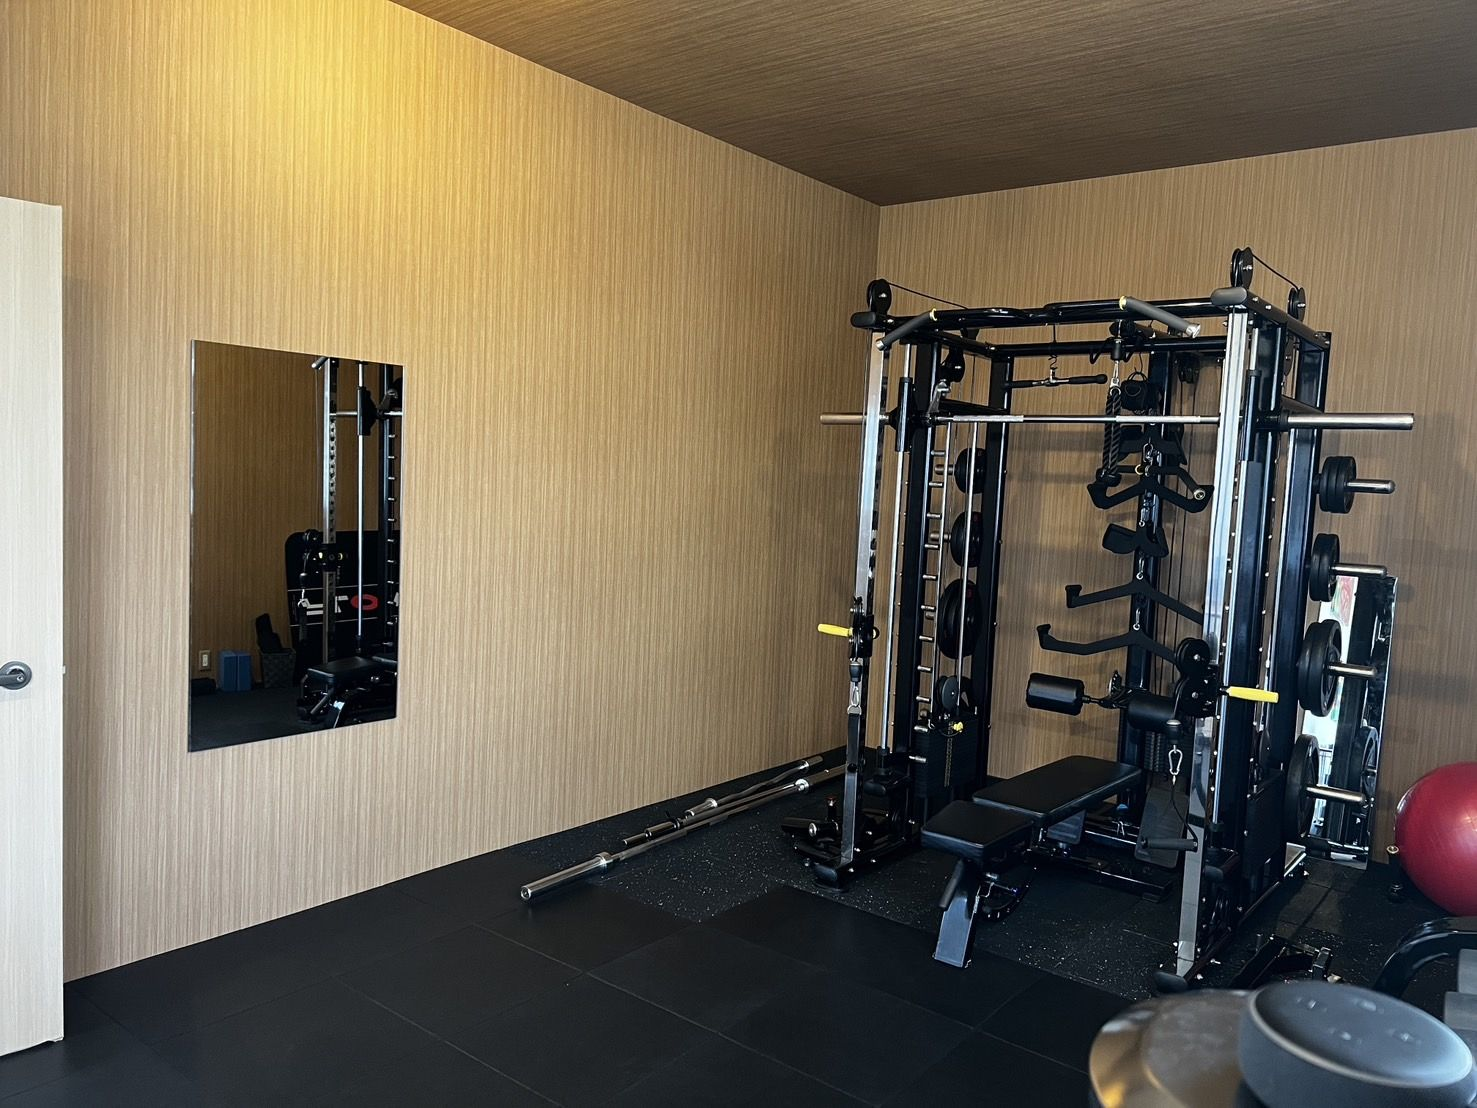
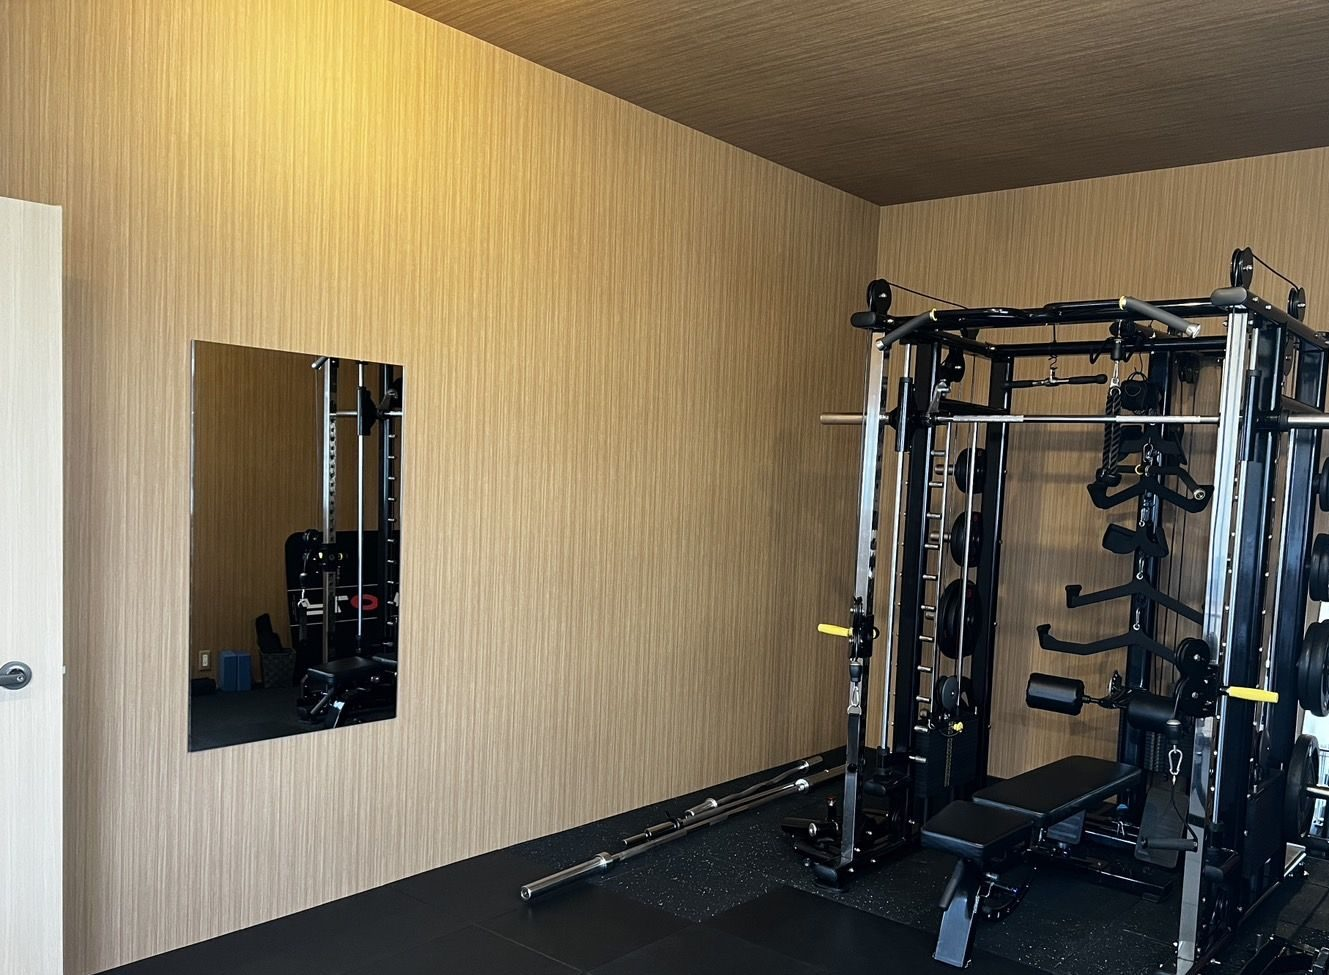
レンタルジム：キャッチを「じぶんだけの時間」に変更、ヘッダー写真のボール等を切り抜き
Claude-Session: https://claude.ai/code/session_01WTuERryJ1nYqSRfbQogsje

diff --git a/rental_gym_cafe.css b/rental_gym_cafe.css
@@ -17,7 +17,7 @@ body[data-theme="none"]{
 *{box-sizing:border-box;margin:0;padding:0;-webkit-tap-highlight-color:transparent}
 html{-webkit-text-size-adjust:100%;text-size-adjust:100%;touch-action:manipulation}
 body{font-family:"Shippori Mincho B1","Hiragino Mincho ProN","Yu Mincho",serif;background:var(--bg);color:var(--ink);line-height:1.7;overflow-x:hidden;touch-action:manipulation;transition:background .35s}
-.hero{position:relative;min-height:320px;color:#FFF8EE;overflow:hidden;background:#3a2a1f url("rental_gym_room.jpg?v=1") center 58%/cover no-repeat;display:flex;align-items:flex-end}
+.hero{position:relative;min-height:320px;color:#FFF8EE;overflow:hidden;background:#3a2a1f url("rental_gym_room.jpg?v=2") center 58%/cover no-repeat;display:flex;align-items:flex-end}
 .hero::before{content:"";position:absolute;inset:0;background:linear-gradient(180deg,rgba(0,0,0,.45) 0%,rgba(0,0,0,0) 30%,rgba(0,0,0,0) 55%,rgba(0,0,0,.5) 100%)}
 .hero::after{content:"";position:absolute;left:0;right:0;bottom:-1px;height:24px;background:var(--bg);border-radius:24px 24px 0 0;transition:background .35s}
 .hero-in{position:static;width:100%;max-width:560px;margin:0 auto;padding:22px 20px 46px}

diff --git a/rental_gym_yoyaku.html b/rental_gym_yoyaku.html
@@ -14,7 +14,7 @@
 <link rel="manifest" href="manifest_rental.json?v=2">
 <link rel="preconnect" href="https://fonts.googleapis.com">
 <link rel="stylesheet" href="https://fonts.googleapis.com/css2?family=Shippori+Mincho+B1:wght@500;700;800&family=Cormorant+Garamond:ital,wght@0,600;1,500;1,600&display=swap">
-<link rel="stylesheet" href="rental_gym_cafe.css?v=5">
+<link rel="stylesheet" href="rental_gym_cafe.css?v=6">
 <title>レンタルジムONE-TRE — 予約</title>
 <script>try{document.documentElement.dataset.t=localStorage.getItem('rentalTheme')||'male'}catch(e){}</script>
 </head>
@@ -22,8 +22,8 @@
 <script>document.body.dataset.theme=document.documentElement.dataset.t||'male';</script>
 <div class="hero"><div class="hero-in">
   <div class="mark"><span class="wm">ONE-TRE</span><span class="rule"></span><span class="sub">RENTAL GYM</span></div>
-  <p class="catch-en">Your strongest time alone</p>
-  <p class="catch">最強の1人時間</p>
+  <p class="catch-en">Time just for you</p>
+  <p class="catch">じぶんだけの時間</p>
 </div></div>
 
 <div class="wrap">

diff --git a/rental_gym_cancel.html b/rental_gym_cancel.html
@@ -10,15 +10,15 @@
 <link rel="icon" href="onetre_logo.png?v=2">
 <link rel="preconnect" href="https://fonts.googleapis.com">
 <link rel="stylesheet" href="https://fonts.googleapis.com/css2?family=Shippori+Mincho+B1:wght@500;700;800&family=Cormorant+Garamond:ital,wght@0,600;1,500;1,600&display=swap">
-<link rel="stylesheet" href="rental_gym_cafe.css?v=5">
+<link rel="stylesheet" href="rental_gym_cafe.css?v=6">
 <title>レンタルジムONE-TRE — キャンセル</title>
 </head>
 <body data-theme="male">
 <script>try{document.body.dataset.theme=localStorage.getItem('rentalTheme')||'male'}catch(e){}</script>
 <div class="hero"><div class="hero-in">
   <div class="mark"><span class="wm">ONE-TRE</span><span class="rule"></span><span class="sub">RENTAL GYM</span></div>
-  <p class="catch-en">Your strongest time alone</p>
-  <p class="catch">最強の1人時間</p>
+  <p class="catch-en">Time just for you</p>
+  <p class="catch">じぶんだけの時間</p>
 </div></div>
 <div class="wrap">
   <h2 class="en">Cancel</h2>

diff --git a/rental_gym_nyukai.html b/rental_gym_nyukai.html
@@ -11,14 +11,14 @@
 <link rel="icon" href="onetre_logo.png?v=2">
 <link rel="preconnect" href="https://fonts.googleapis.com">
 <link rel="stylesheet" href="https://fonts.googleapis.com/css2?family=Shippori+Mincho+B1:wght@500;700;800&family=Cormorant+Garamond:ital,wght@0,600;1,500;1,600&display=swap">
-<link rel="stylesheet" href="rental_gym_cafe.css?v=5">
+<link rel="stylesheet" href="rental_gym_cafe.css?v=6">
 <title>レンタルジムONE-TRE — 入会申込み</title>
 </head>
 <body data-theme="male">
 <div class="hero"><div class="hero-in">
   <div class="mark"><span class="wm">ONE-TRE</span><span class="rule"></span><span class="sub">RENTAL GYM</span></div>
-  <p class="catch-en">Your strongest time alone</p>
-  <p class="catch">最強の1人時間</p>
+  <p class="catch-en">Time just for you</p>
+  <p class="catch">じぶんだけの時間</p>
 </div></div>
 
 <div class="wrap">
